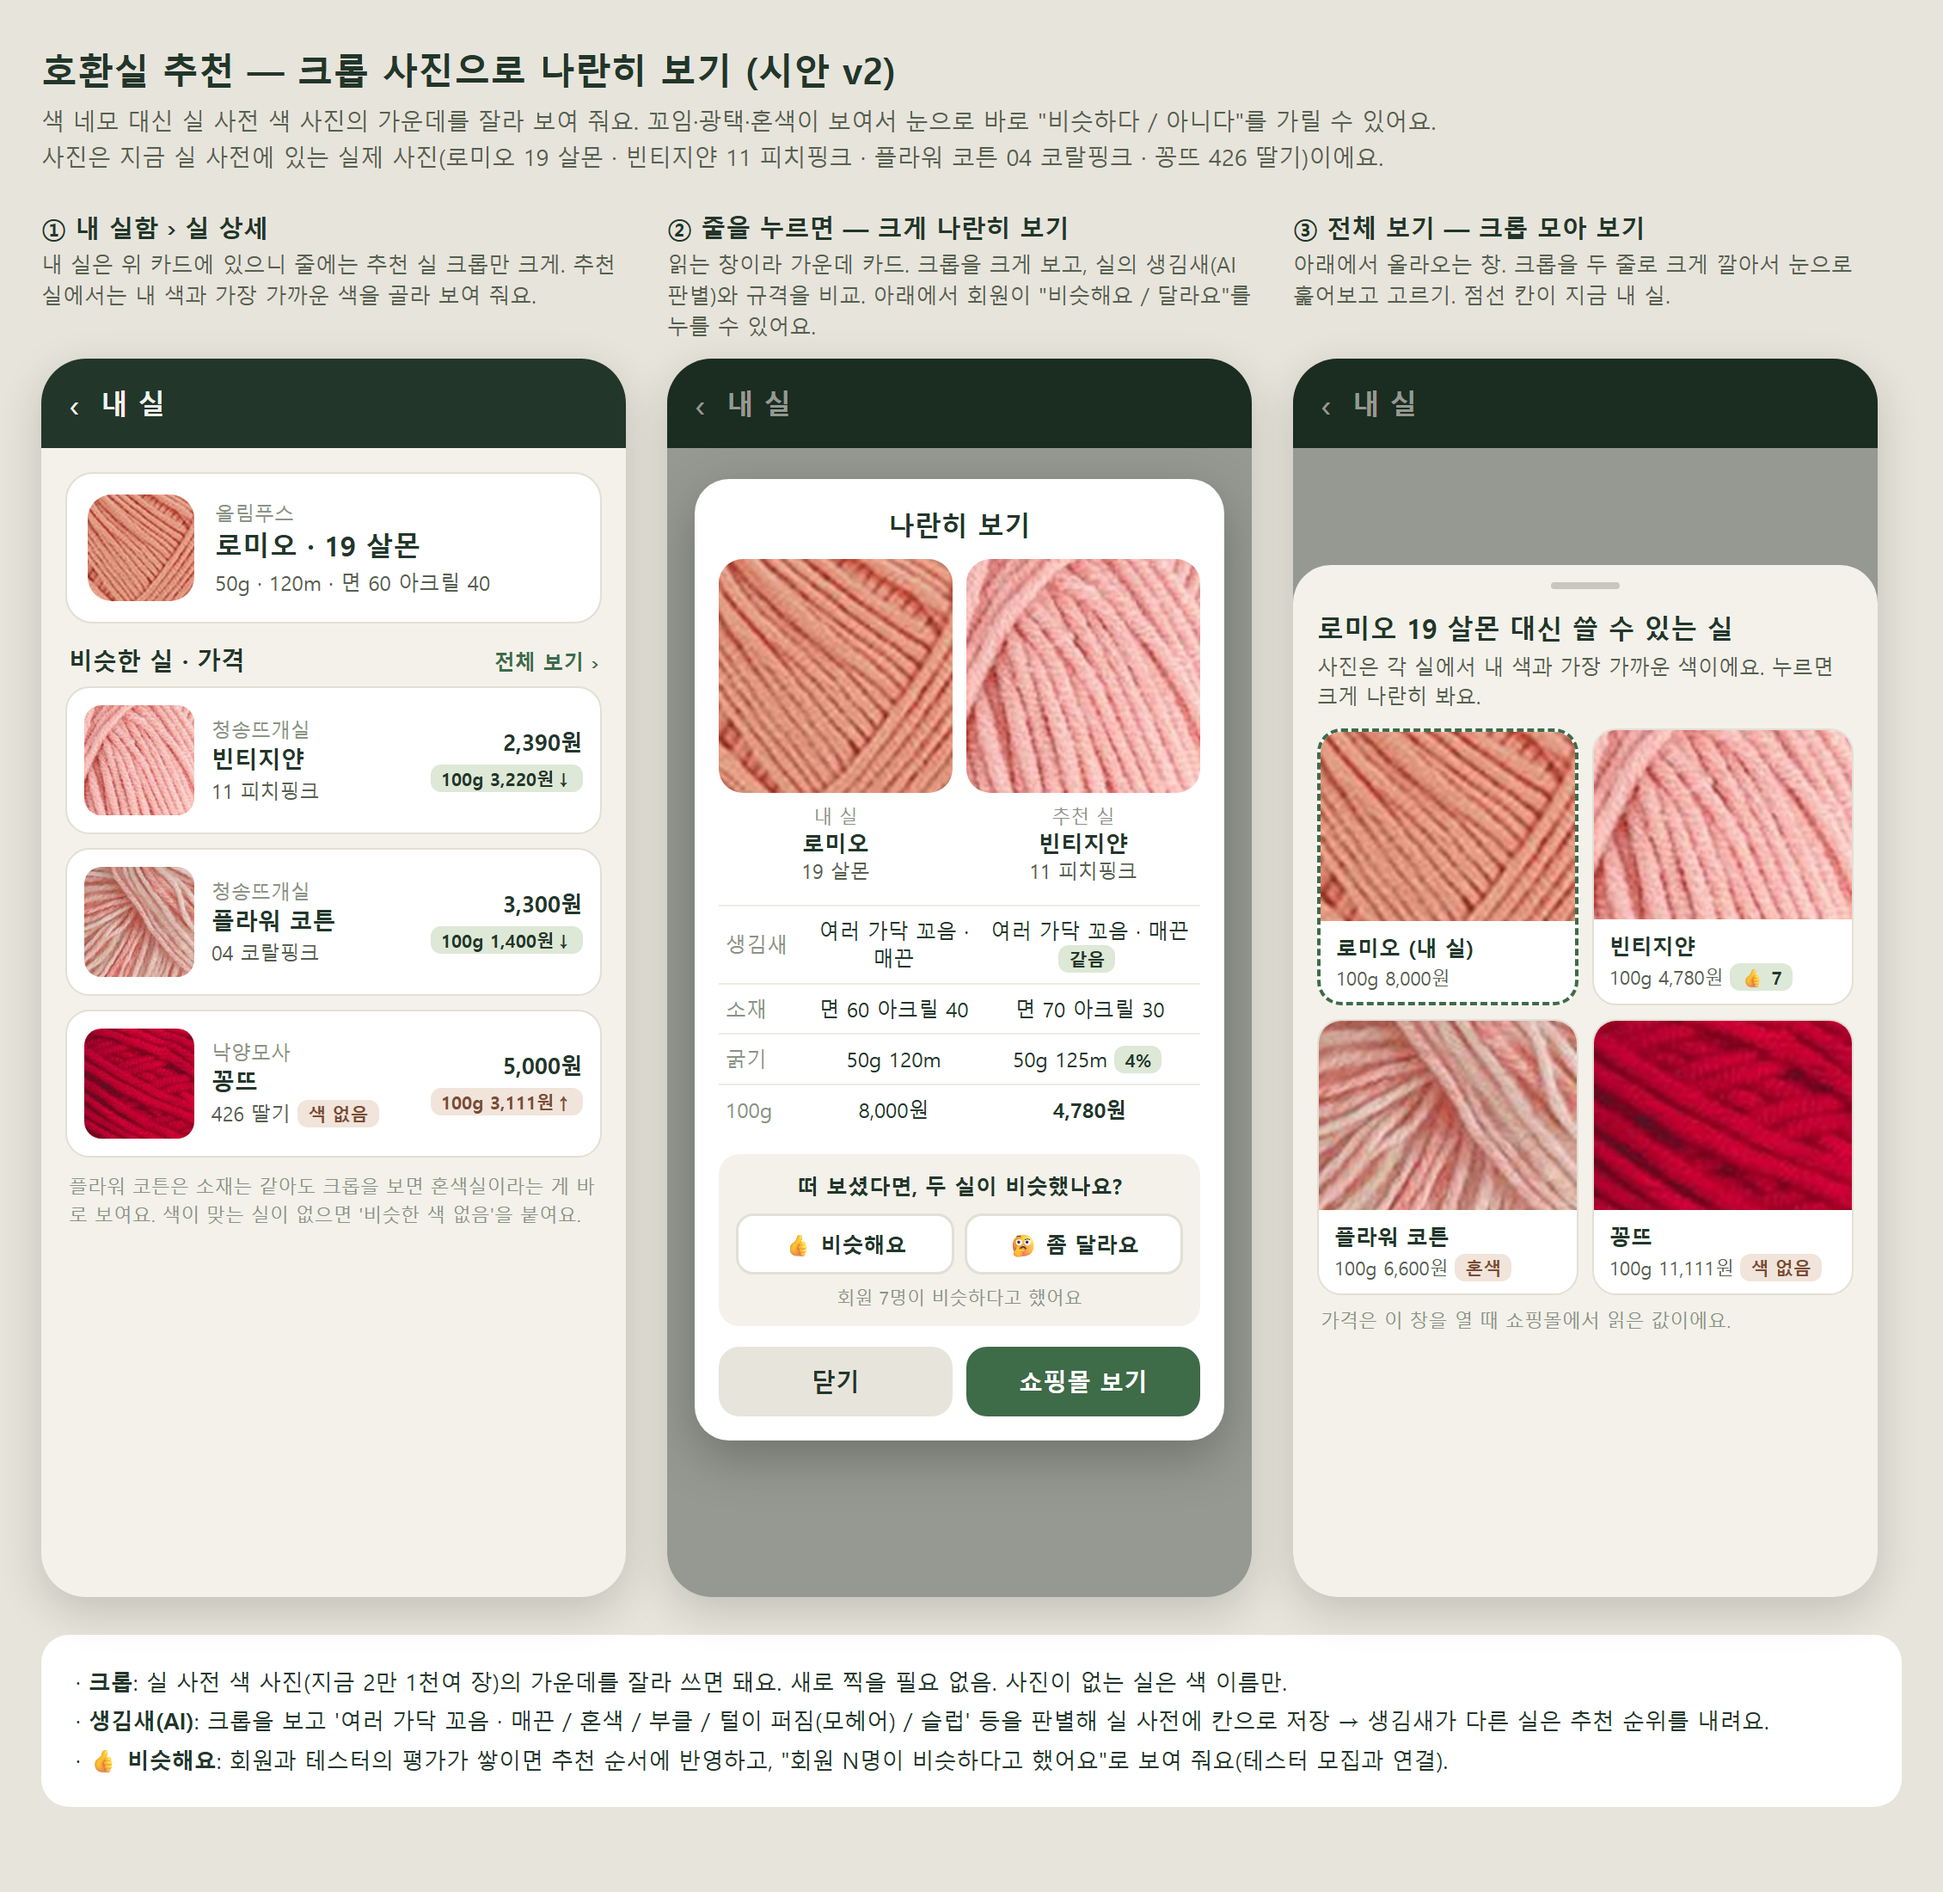
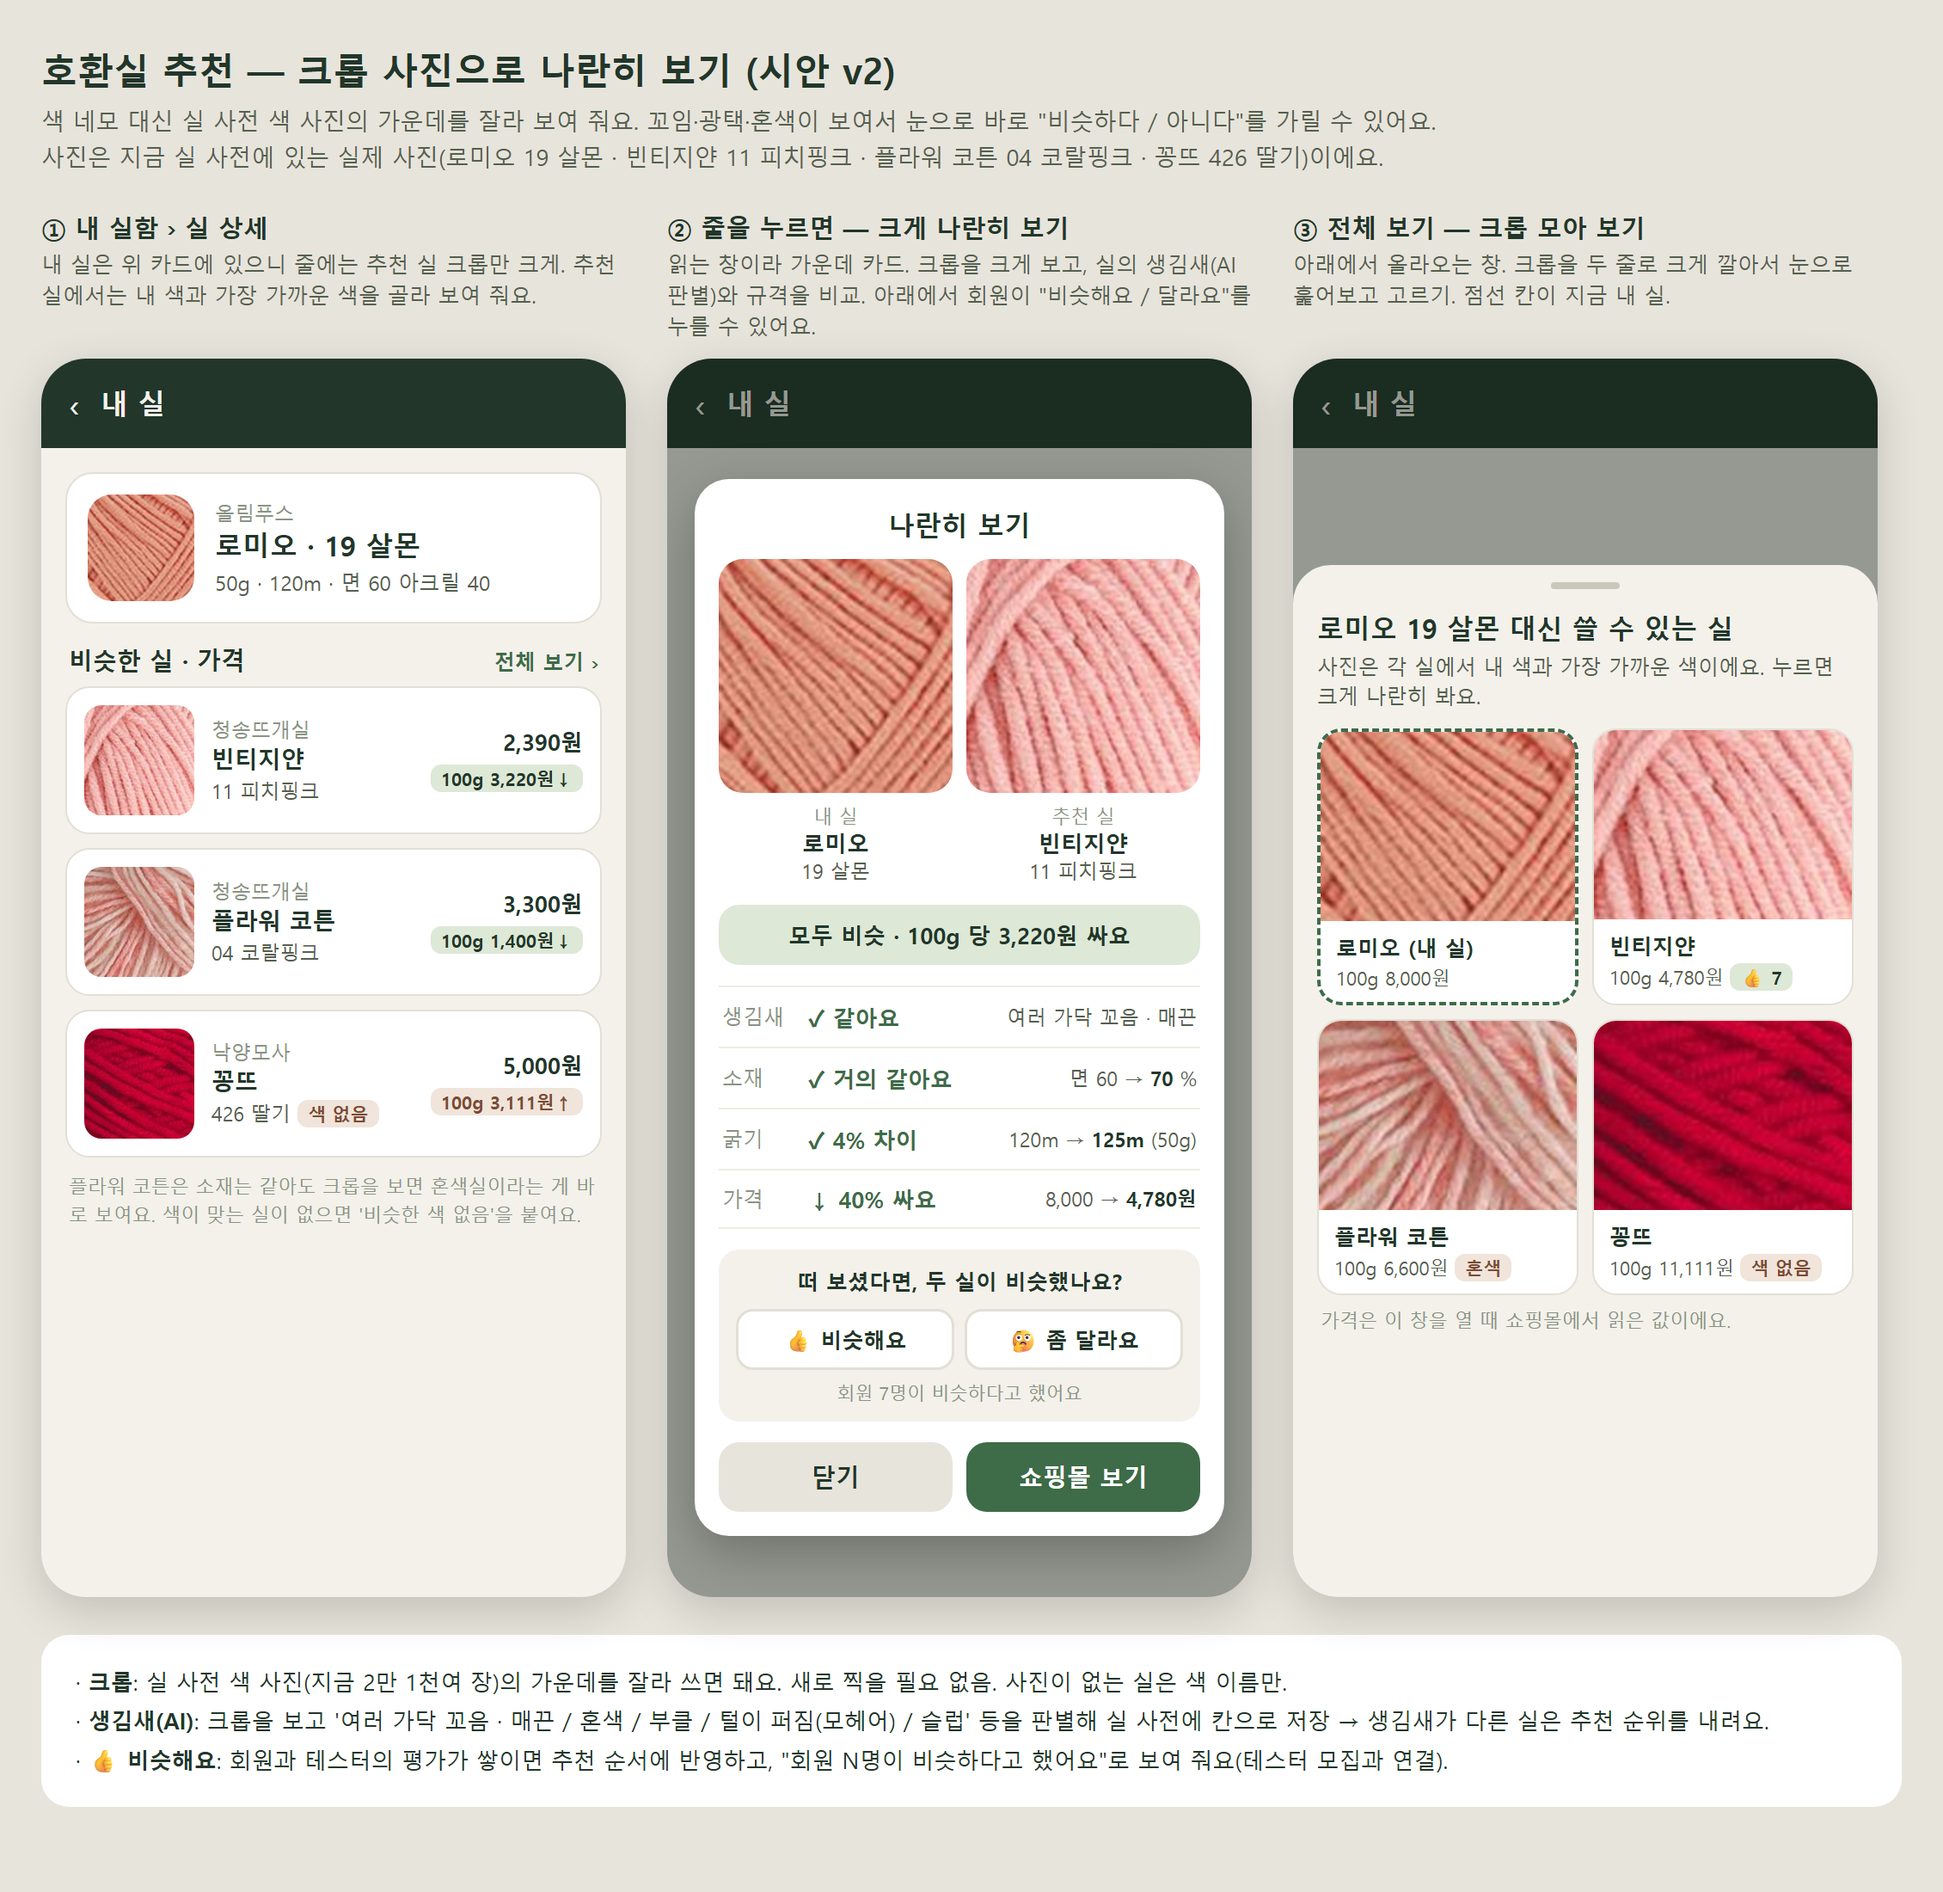
시안: 호환실 v2 — 나란히 보기를 결론 한 줄 + 항목별 판정으로 [skip ci]

Changed region(s): [[0.3407, 0.4636, 0.6504, 0.8345]]

diff --git a/resources/mockups/yarn_compat_crop_20261116.html b/resources/mockups/yarn_compat_crop_20261116.html
@@ -27,7 +27,7 @@ h1{font-size:21px;margin-bottom:6px}.sub{font-size:13.5px;color:#55604F;margin-b
 .cc h3{font-size:15.5px;margin-bottom:10px;text-align:center}
 .big{display:flex;gap:8px}.big div{flex:1;text-align:center}.big img{width:100%;aspect-ratio:1;border-radius:14px;object-fit:cover;display:block}
 .big .l{font-size:11px;color:#8A9384;margin-top:6px}.big .n{font-size:13px;font-weight:800}.big .c{font-size:11.5px;color:#55604F}
-.tb{width:100%;border-collapse:collapse;margin-top:12px;font-size:12px}.tb td{padding:6px 4px;border-top:1px solid #EEECE5;text-align:center}.tb td:first-child{color:#8A9384;text-align:left;width:52px}
+.vd{margin-top:12px;border-top:1px solid #EEECE5}.vr{display:grid;grid-template-columns:50px 92px 1fr;align-items:center;padding:8px 2px;border-bottom:1px solid #EEECE5;font-size:12px}.vr .k{color:#8A9384}.vr .v{font-weight:800;font-size:13px}.vr .v.ok{color:#3E6B48}.vr .v.dn{color:#3E6B48}.vr .v.up{color:#A2502F}.vr .d{color:#55604F;font-size:11.5px;text-align:right}.vr .d b{color:#22362A}.sum{margin-top:12px;background:#DDE8D6;border-radius:12px;padding:9px 12px;font-size:13px;font-weight:800;text-align:center}
 .ask{margin-top:12px;background:#F3F1EA;border-radius:12px;padding:10px;text-align:center}.ask p{font-size:12.5px;font-weight:800;margin-bottom:8px}
 .ask .bb{display:flex;gap:6px}.ask .bb span{flex:1;background:#fff;border:1.5px solid #E2DFD5;border-radius:10px;padding:8px 0;font-size:12.5px;font-weight:800}
 .ask small{display:block;font-size:10.5px;color:#8A9384;margin-top:6px}
@@ -58,10 +58,7 @@ h1{font-size:21px;margin-bottom:6px}.sub{font-size:13.5px;color:#55604F;margin-b
 <div class="ph"><div class="top2"><i>‹</i>내 실</div><div class="bd"></div><div class="dim"></div>
  <div class="cc"><h3>나란히 보기</h3>
[1 lines of base64/hex data omitted]
-  <table class="tb"><tr><td>생김새</td><td>여러 가닥 꼬음 · 매끈</td><td>여러 가닥 꼬음 · 매끈 <span class="st ok">같음</span></td></tr>
-  <tr><td>소재</td><td>면 60 아크릴 40</td><td>면 70 아크릴 30</td></tr>
-  <tr><td>굵기</td><td>50g 120m</td><td>50g 125m <span class="st ok">4%</span></td></tr>
-  <tr><td>100g</td><td>8,000원</td><td><b>4,780원</b></td></tr></table>
+  <div class="sum">모두 비슷 · 100g 당 3,220원 싸요</div><div class="vd"><div class="vr"><span class="k">생김새</span><span class="v ok">✓ 같아요</span><span class="d">여러 가닥 꼬음 · 매끈</span></div><div class="vr"><span class="k">소재</span><span class="v ok">✓ 거의 같아요</span><span class="d">면 60 → <b>70</b> %</span></div><div class="vr"><span class="k">굵기</span><span class="v ok">✓ 4% 차이</span><span class="d">120m → <b>125m</b> (50g)</span></div><div class="vr"><span class="k">가격</span><span class="v dn">↓ 40% 싸요</span><span class="d">8,000 → <b>4,780원</b></span></div></div>
   <div class="ask"><p>떠 보셨다면, 두 실이 비슷했나요?</p><div class="bb"><span>👍 비슷해요</span><span>🤔 좀 달라요</span></div><small>회원 7명이 비슷하다고 했어요</small></div>
   <div class="btns"><span class="b1">닫기</span><span class="b2">쇼핑몰 보기</span></div>
  </div></div></div>
